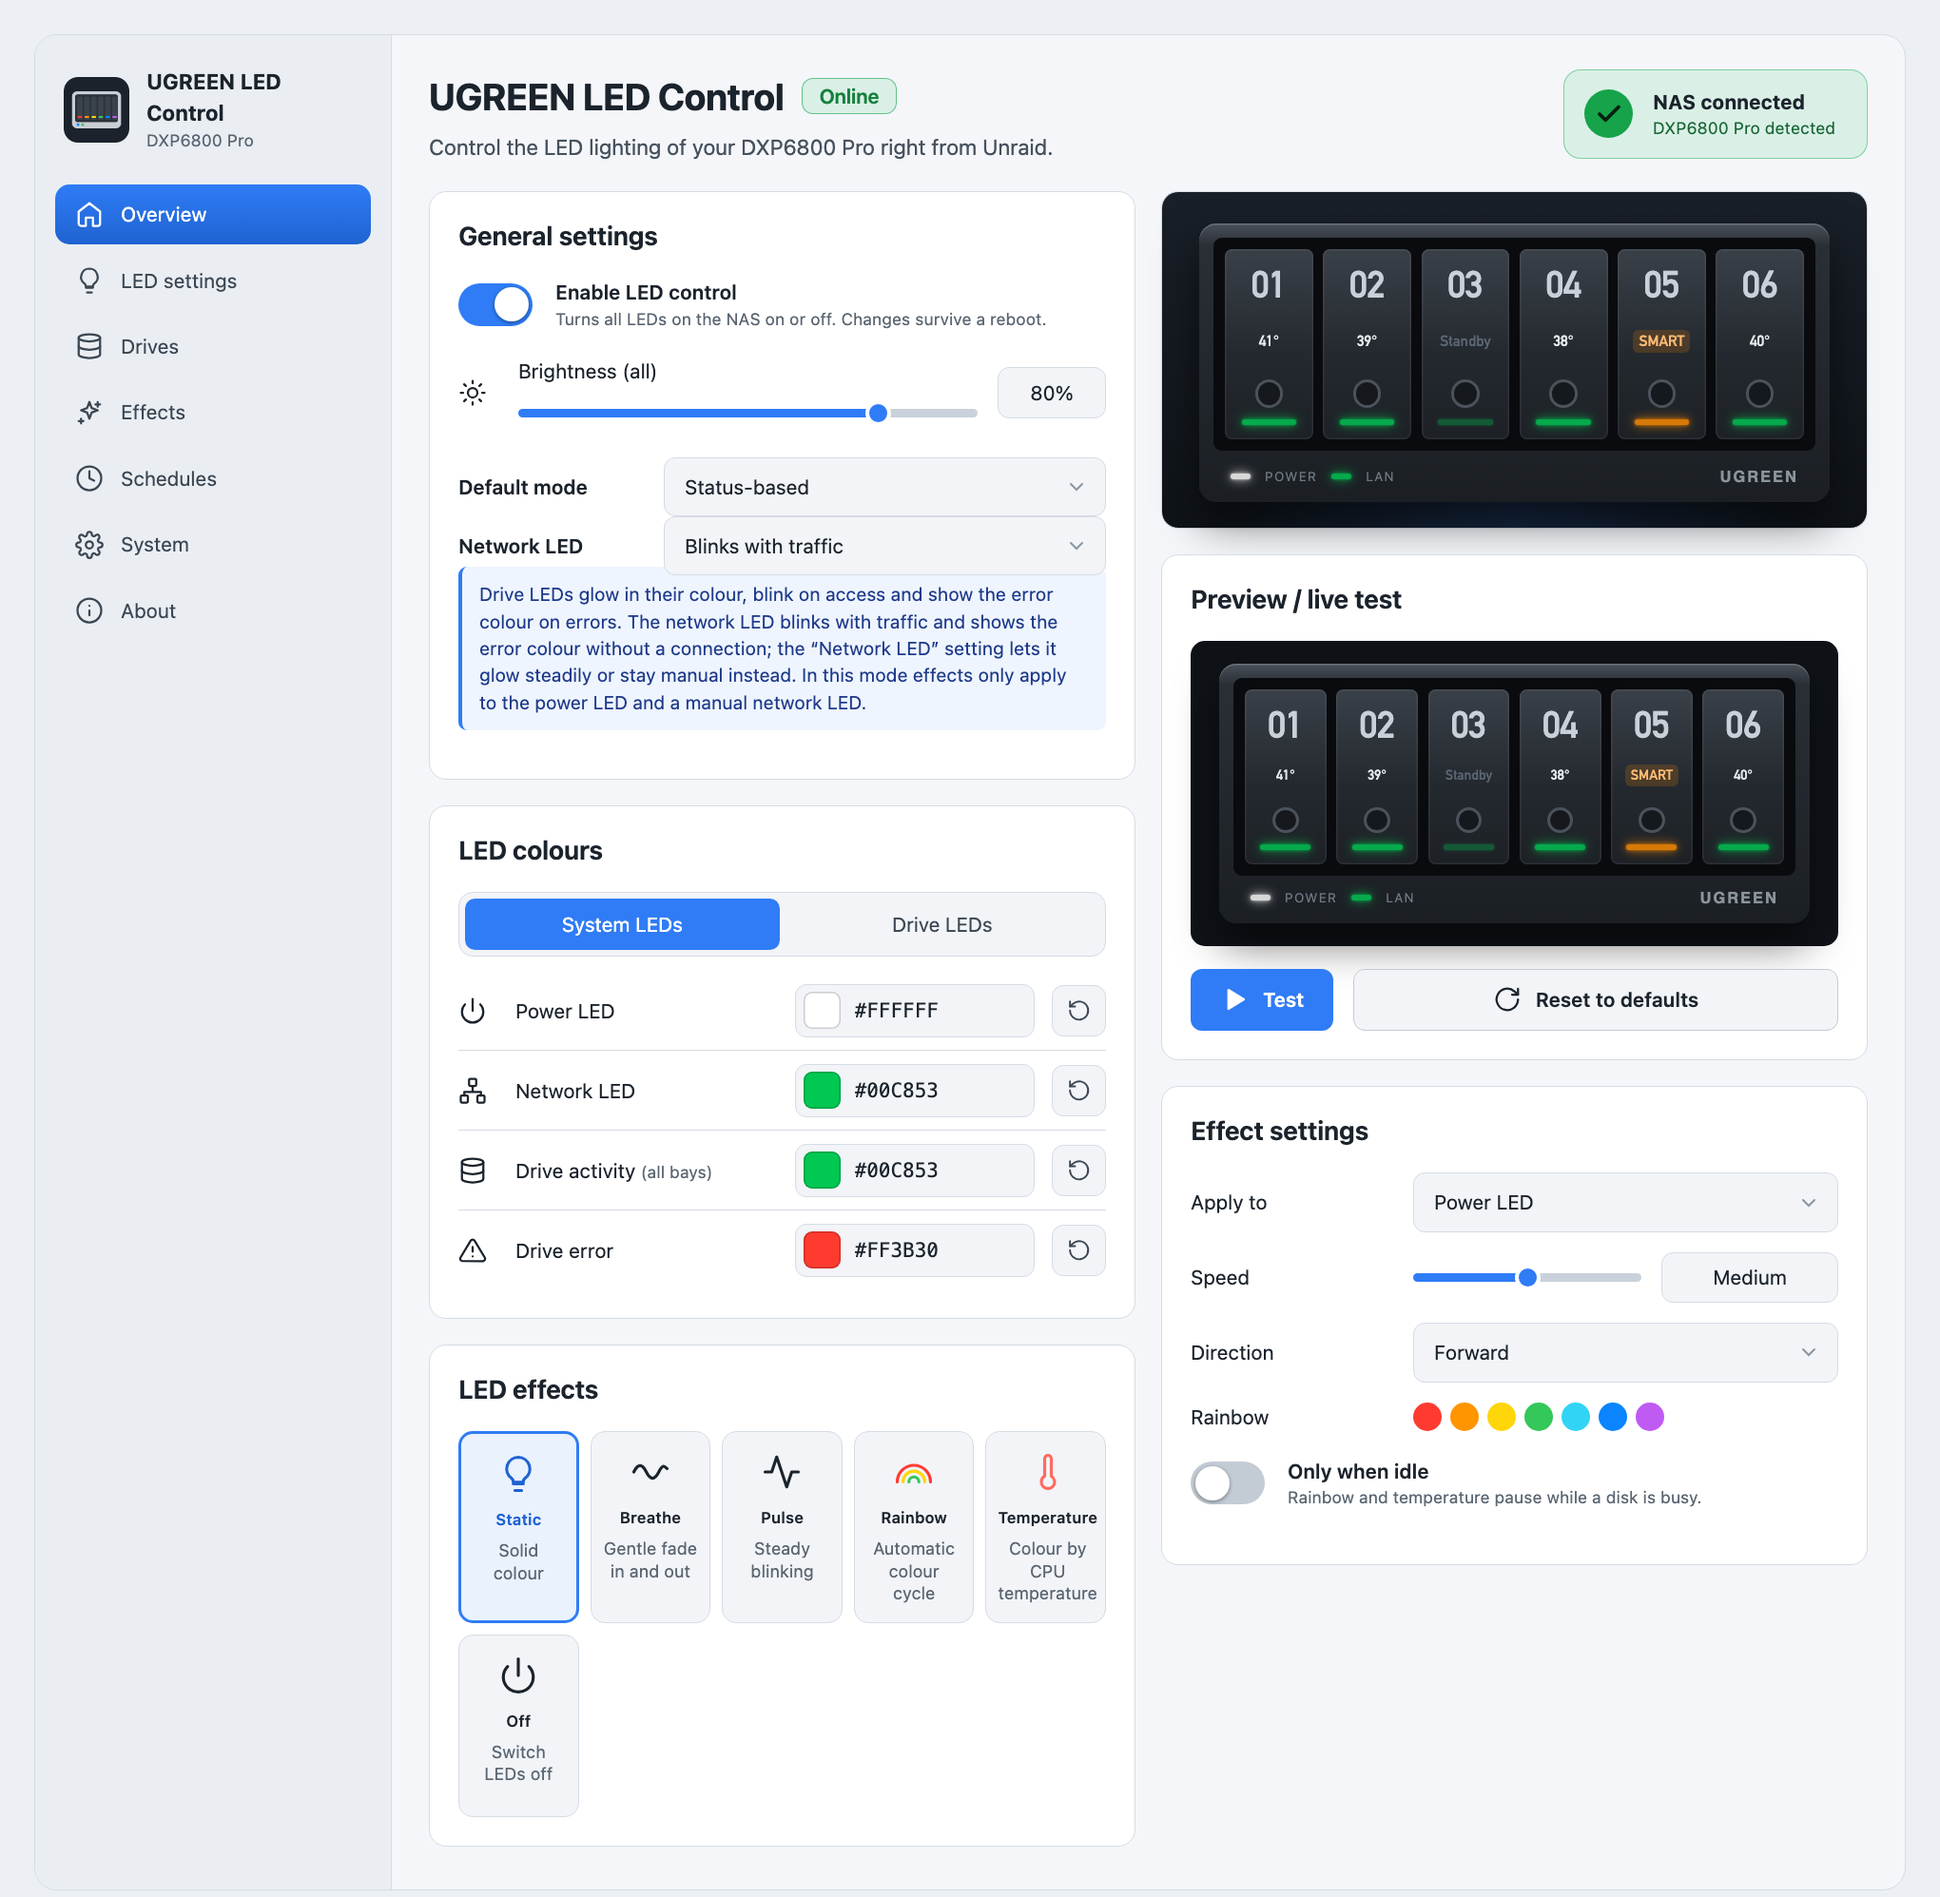
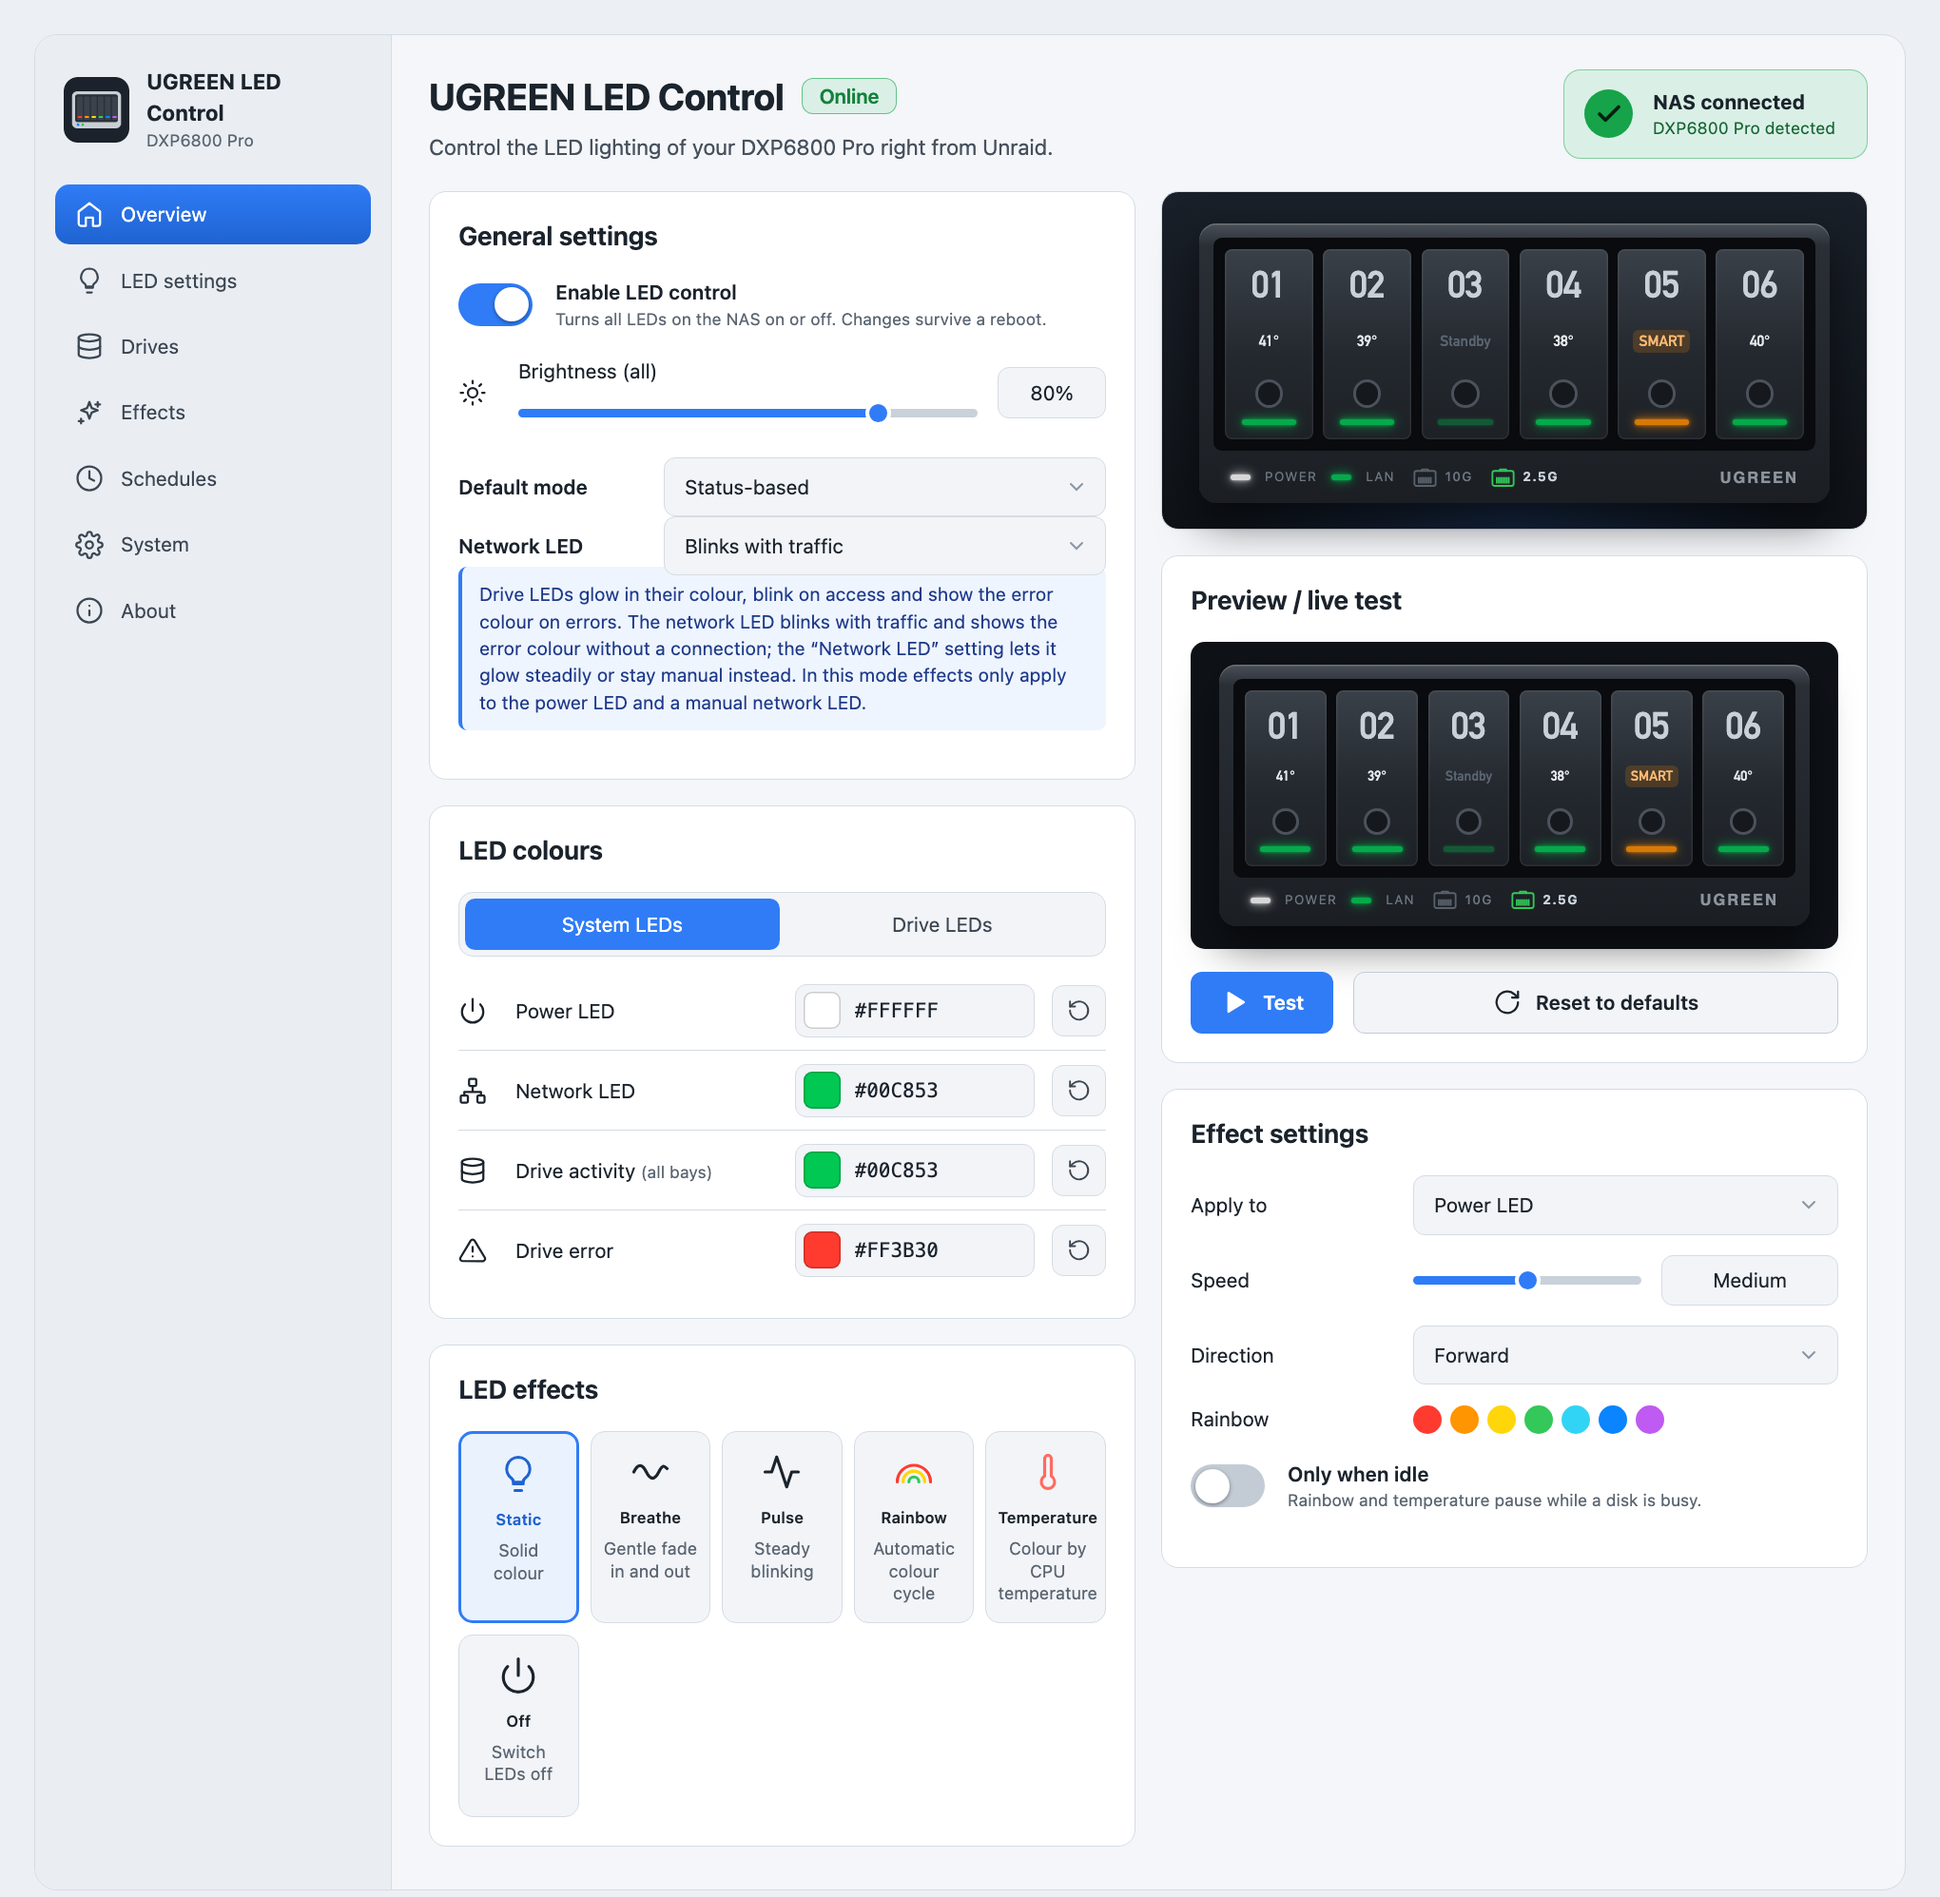
feat: draw the network ports as RJ45 sockets

diff --git a/src/web/js/app.js b/src/web/js/app.js
@@ -459,9 +459,7 @@
         const speed = Number(state.status.netdev_speed) || 0;
         const items = ports.length > 1
             ? ports.map(port => ({
-                text: port.link
-                    ? `${port.name} ${speedShort(port.speed)}`.trim()
-                    : `${port.name} ${port.max ? speedShort(port.max) + ' ' : ''}\u2715`,
+                text: speedShort(port.link ? port.speed : port.max),
                 down: !port.link,
                 title: portTitle(port)
             }))
@@ -470,7 +468,8 @@
         qa('[data-link-speed]').forEach(element => {
             element.replaceChildren(...items.map(item => {
                 const span = document.createElement('span');
-                span.textContent = item.text;
+                span.innerHTML = PORT_ICON;
+                span.append(document.createTextNode(item.text));
                 span.title = item.title;
                 if (item.down) span.className = 'down';
                 return span;
@@ -532,6 +531,9 @@
     // Network LED by link speed (Mbit/s); the backend picks the largest step at or below the speed.
     const LINK_SPEEDS = [10, 100, 1000, 2500, 5000, 10000];
     const SPEED_DEFAULTS = { 10: '#ff3b30', 100: '#ff8c00', 1000: '#ffd60a', 2500: '#00c853', 5000: '#00c8c8', 10000: '#0078ff' };
+
+    // An RJ45 socket: the network ports next to the LAN LED.
+    const PORT_ICON = '<svg class="ulc-port-ico" viewBox="0 0 20 16" aria-hidden="true"><rect x="1.5" y="2.5" width="17" height="12" rx="1.8"/><path d="M7.5 2.5V1.2h5v1.3"/><path d="M5 8v4M6.6 8v4M8.2 8v4M9.8 8v4M11.4 8v4M13 8v4M14.6 8v4"/></svg>';
 
     // "2.5G", "1G", "100M": the negotiated link speed next to the LAN LED.
     const speedShort = mbps => mbps >= 1000 ? `${mbps / 1000}G` : mbps > 0 ? `${mbps}M` : '';

diff --git a/src/web/js/dash.js b/src/web/js/dash.js
@@ -43,6 +43,9 @@
     // "2.5G", "1G", "100M": the negotiated link speed next to the LAN LED.
     const speedShort = mbps => mbps >= 1000 ? `${mbps / 1000}G` : mbps > 0 ? `${mbps}M` : '';
 
+    // An RJ45 socket: the network ports next to the LAN LED.
+    const PORT_ICON = '<svg class="ulc-port-ico" viewBox="0 0 20 16" aria-hidden="true"><rect x="1.5" y="2.5" width="17" height="12" rx="1.8"/><path d="M7.5 2.5V1.2h5v1.3"/><path d="M5 8v4M6.6 8v4M8.2 8v4M9.8 8v4M11.4 8v4M13 8v4M14.6 8v4"/></svg>';
+
     const speedName = mbps => mbps >= 1000 ? `${String(mbps / 1000)} Gbit/s` : `${mbps} Mbit/s`;
 
     // "eth0 10G ✕" for a port without link, "eth1 2.5G" with one; one port: just the speed.
@@ -51,9 +54,7 @@
         const speed = Number(state.status.netdev_speed) || 0;
         const items = ports.length > 1
             ? ports.map(port => ({
-                text: port.link
-                    ? `${port.name} ${speedShort(port.speed)}`.trim()
-                    : `${port.name} ${port.max ? speedShort(port.max) + ' ' : ''}\u2715`,
+                text: speedShort(port.link ? port.speed : port.max),
                 down: !port.link,
                 title: `${port.name}: ${port.link ? speedName(port.speed) : t('fact.port_down')}`
             }))
@@ -62,7 +63,8 @@
         root.querySelectorAll('[data-link-speed]').forEach(element => {
             element.replaceChildren(...items.map(item => {
                 const span = document.createElement('span');
-                span.textContent = item.text;
+                span.innerHTML = PORT_ICON;
+                span.append(document.createTextNode(item.text));
                 span.title = item.title;
                 if (item.down) span.className = 'down';
                 return span;

diff --git a/src/web/css/app.css b/src/web/css/app.css
@@ -988,17 +988,37 @@
 /* The negotiated link speed right after "LAN". */
 .ulc-nas-front .ulc-link-speed {
     display: inline-flex;
-    gap: 10px;
-    margin-left: -4px;
-    color: #aab4bf;
-    font-weight: 700;
+    gap: 12px;
+    margin-left: 2px;
     white-space: nowrap;
 }
 
-/* A port without link: dimmed, with its maximum speed and a cross. */
-.ulc-nas-front .ulc-link-speed .down {
+.ulc-nas-front .ulc-link-speed > span {
+    display: inline-flex;
+    gap: 5px;
+    align-items: center;
+    color: #c9d1da;
+    font-weight: 700;
+}
+
+/* An RJ45 socket; green with link, dimmed with the speed it supports without. */
+.ulc svg.ulc-port-ico {
+    width: 18px;
+    height: 14px;
+    fill: none;
+    stroke: #34c759;
+    stroke-width: 1.4;
+    stroke-linecap: round;
+    stroke-linejoin: round;
+}
+
+.ulc-nas-front .ulc-link-speed > .down {
     color: #6f7882;
     font-weight: 500;
+}
+
+.ulc .ulc-link-speed > .down svg.ulc-port-ico {
+    stroke: #59616b;
 }
 
 .ulc-nas-front .ulc-link-speed[hidden] {

diff --git a/README.md b/README.md
@@ -8,7 +8,7 @@ LED control for UGREEN DX/DXP NAS devices on Unraid 7: colour, brightness and ef
 
 - **Per LED**: colour, brightness and effect – static, breathe and pulse (run by the LED controller), rainbow and CPU temperature (run by the plugin, with speed, direction and "only when idle")
 - **Status mode**: bay LEDs blink on disk activity, show an error colour for disabled or missing disks, warn on rising SMART values (with an "Acknowledge" button), breathe during parity checks and rebuilds, and dim, switch off or pulse slowly for spun-down disks. Each bay can show its disk's temperature colour, based on Unraid's warning and critical limits
-- **Network LED**: blinks with traffic, shows only the link, or stays manual; optionally coloured by link speed (10 Mbit/s to 10 Gbit/s, one colour per speed), so a link that negotiated less than expected stands out. The network ports are also shown next to the LAN LED in the case picture and the dashboard tile, each with its speed, or dimmed with a cross when unplugged
+- **Network LED**: blinks with traffic, shows only the link, or stays manual; optionally coloured by link speed (10 Mbit/s to 10 Gbit/s, one colour per speed), so a link that negotiated less than expected stands out. The network ports are also drawn next to the LAN LED in the case picture and the dashboard tile, as RJ45 sockets with the speed they run at, or dimmed with the speed they support when unplugged
 - **Night mode**: dim or switch off at fixed times, also across midnight
 - **Unraid alerts**: the power LED blinks while there are unread warnings or alerts
 - **Identify a bay**: blink one bay white before you pull a disk
